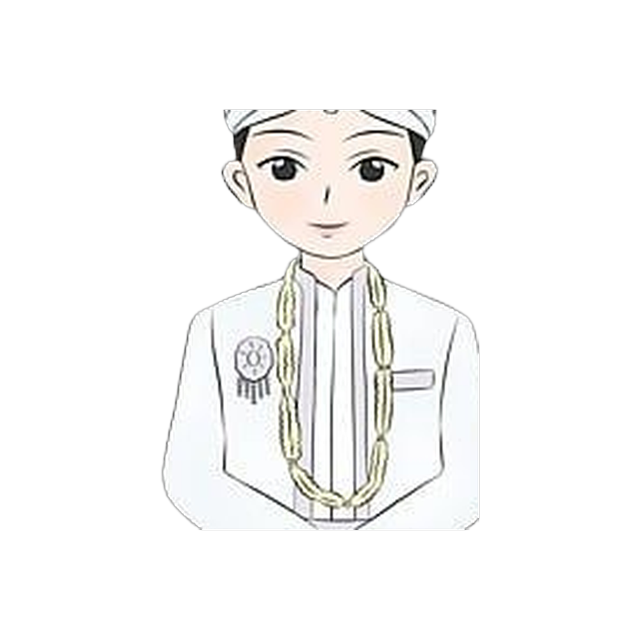
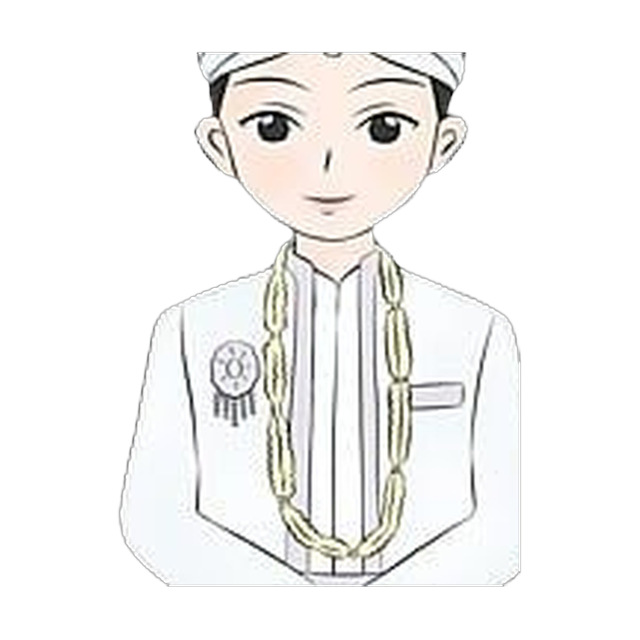
fix: fill portraits to circle edge and autoplay music on open

diff --git a/src/components/invitation/MusicPlayer.tsx b/src/components/invitation/MusicPlayer.tsx
@@ -6,45 +6,52 @@ import { cn } from "@/lib/utils";
 
 interface Props {
   musicUrl?: string;
+  autoPlayAudio?: HTMLAudioElement | null;
 }
 
-export function MusicPlayer({ musicUrl }: Props) {
+export function MusicPlayer({ musicUrl, autoPlayAudio }: Props) {
   const [isPlaying, setIsPlaying] = useState(false);
   const [showHint, setShowHint] = useState(true);
   const audioRef = useRef<HTMLAudioElement | null>(null);
 
   useEffect(() => {
-    if (!musicUrl) return;
+    if (autoPlayAudio) {
+      audioRef.current = autoPlayAudio;
+      autoPlayAudio.loop = true;
+      autoPlayAudio.volume = 0.5;
+      autoPlayAudio.onplay = () => setIsPlaying(true);
+      autoPlayAudio.onpause = () => setIsPlaying(false);
+      if (!autoPlayAudio.paused) setIsPlaying(true);
+    } else if (musicUrl && !audioRef.current) {
+      const audio = new Audio(musicUrl);
+      audio.loop = true;
+      audio.volume = 0.5;
+      audio.onplay = () => setIsPlaying(true);
+      audio.onpause = () => setIsPlaying(false);
+      audioRef.current = audio;
+    }
 
-    const audio = new Audio(musicUrl);
-    audio.loop = true;
-    audio.volume = 0.5;
-    audioRef.current = audio;
-
-    const tryPlay = () => {
-      audio.play().then(() => setIsPlaying(true)).catch(() => {});
-    };
-    tryPlay();
-
-    const timer = setTimeout(() => setShowHint(false), 3000);
+    const timer = setTimeout(() => setShowHint(false), 4000);
     return () => {
       clearTimeout(timer);
-      audio.pause();
-      audio.src = "";
+      if (!autoPlayAudio && audioRef.current) {
+        audioRef.current.pause();
+        audioRef.current.src = "";
+      }
     };
-  }, [musicUrl]);
+  }, [musicUrl, autoPlayAudio]);
 
   const togglePlay = () => {
-    if (!audioRef.current) return;
+    const audio = audioRef.current;
+    if (!audio) return;
     if (isPlaying) {
-      audioRef.current.pause();
-      setIsPlaying(false);
+      audio.pause();
     } else {
-      audioRef.current.play().then(() => setIsPlaying(true)).catch(() => {});
+      audio.play().catch(() => {});
     }
   };
 
-  if (!musicUrl) return null;
+  if (!musicUrl && !autoPlayAudio) return null;
 
   return (
     <div className="fixed bottom-6 left-6 z-50 flex items-center gap-2">
@@ -54,7 +61,7 @@ export function MusicPlayer({ musicUrl }: Props) {
           "relative flex h-12 w-12 items-center justify-center rounded-full bg-white/90 shadow-lg backdrop-blur-sm transition-all hover:scale-110",
           isPlaying && "ring-2 ring-offset-2 ring-pink-300 animate-pulse"
         )}
-        aria-label={isPlaying ? "Pause music" : "Play music"}
+        aria-label={isPlaying ? "Pause musik" : "Play musik"}
       >
         {isPlaying ? (
           <Music className="h-5 w-5 text-pink-500 animate-spin" style={{ animationDuration: "3s" }} />
@@ -63,8 +70,8 @@ export function MusicPlayer({ musicUrl }: Props) {
         )}
       </button>
       {showHint && (
-        <span className="text-xs bg-white/90 rounded-full px-3 py-1 shadow text-gray-600 animate-fade-in">
-          Musik
+        <span className="text-xs bg-white/90 rounded-full px-3 py-1 shadow text-gray-600">
+          {isPlaying ? "Musik" : "Tap untuk play"}
         </span>
       )}
     </div>

diff --git a/src/components/invitation/InvitationWrapper.tsx b/src/components/invitation/InvitationWrapper.tsx
@@ -1,6 +1,6 @@
 "use client";
 
-import { useState, useEffect } from "react";
+import { useState, useEffect, useRef } from "react";
 import { OpeningCover } from "./OpeningCover";
 import { MusicPlayer } from "./MusicPlayer";
 import { HeroSection } from "./sections/HeroSection";
@@ -26,12 +26,25 @@ interface Props {
 
 export function InvitationWrapper({ tenant, photos, wishes, theme, guestName }: Props) {
   const [isOpened, setIsOpened] = useState(false);
+  const autoPlayAudioRef = useRef<HTMLAudioElement | null>(null);
 
   useEffect(() => {
     if (isOpened) {
       window.scrollTo({ top: 0, behavior: "instant" });
     }
   }, [isOpened]);
+
+  const handleOpen = () => {
+    const musicUrl = tenant.music_url as string | undefined;
+    if (musicUrl) {
+      const audio = new Audio(musicUrl);
+      audio.loop = true;
+      audio.volume = 0.5;
+      audio.play().catch(() => {});
+      autoPlayAudioRef.current = audio;
+    }
+    setIsOpened(true);
+  };
 
   const themeConfig: ThemeConfig = ((theme as { config?: ThemeConfig })?.config || {
     primaryColor: "#E8748A",
@@ -54,14 +67,17 @@ export function InvitationWrapper({ tenant, photos, wishes, theme, guestName }: 
         coverPhotoUrl={tenant.cover_photo_url as string | undefined}
         guestName={guestName}
         themeConfig={themeConfig}
-        onOpen={() => setIsOpened(true)}
+        onOpen={handleOpen}
       />
     );
   }
 
   return (
     <div style={{ backgroundColor: themeConfig.backgroundColor, color: themeConfig.textColor }}>
-      <MusicPlayer musicUrl={tenant.music_url as string | undefined} />
+      <MusicPlayer
+        musicUrl={tenant.music_url as string | undefined}
+        autoPlayAudio={autoPlayAudioRef.current}
+      />
 
       {(() => {
         const tenantData: Tenant = {

diff --git a/src/components/invitation/sections/CoupleSection.tsx b/src/components/invitation/sections/CoupleSection.tsx
@@ -31,10 +31,8 @@ function PortraitCircle({
         background: `radial-gradient(circle at 50% 55%, ${themeConfig.secondaryColor} 0%, ${themeConfig.backgroundColor} 72%)`,
       }}
     >
-      <div className="box-border flex size-full min-h-0 min-w-0 items-center justify-center p-[6%]">
-        <div className="relative aspect-square w-full min-h-0 min-w-0 overflow-hidden">
-          {children}
-        </div>
+      <div className="relative size-full">
+        {children}
       </div>
     </div>
   );
